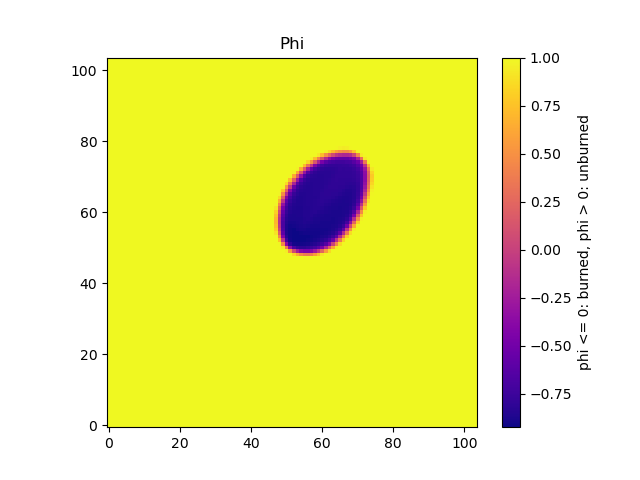
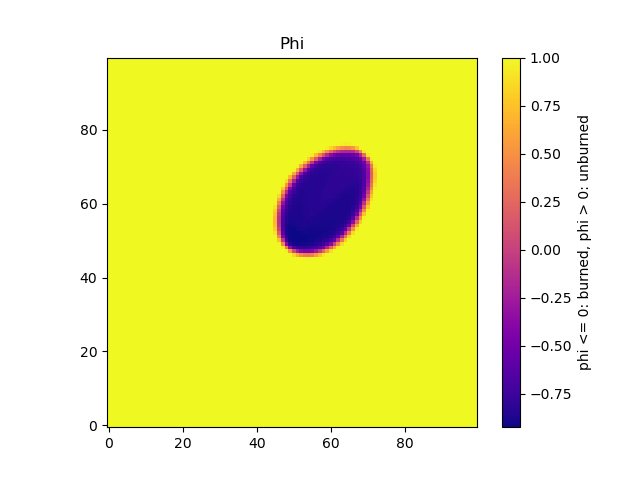
Make SpreadState.get_full_matrices() trim off the 2 cell buffer from phi_matrix, so that it matches the other returned layers

diff --git a/docs/index.html b/docs/index.html
@@ -10459,7 +10459,7 @@ is returned.
     <span class="org-keyword">def</span> <span class="org-function-name">get_full_matrices</span>(<span class="org-keyword">self</span>, layers: <span class="org-builtin">list</span>[<span class="org-builtin">str</span>]<span class="org-operator">|</span><span class="org-constant">None</span> <span class="org-operator">=</span> <span class="org-constant">None</span>) <span class="org-operator">-&gt;</span> <span class="org-builtin">dict</span>:
         <span class="org-comment-delimiter"># </span><span class="org-comment">Prepare the 2D arrays in a dict</span>
         <span class="org-variable-name">available_matrices</span>: <span class="org-builtin">dict</span>[<span class="org-builtin">str</span>, <span class="org-variable-name">ndarray</span>] <span class="org-operator">=</span> {
-            <span class="org-string">"phi"</span>               : np.asarray(<span class="org-keyword">self</span>.phi),
+            <span class="org-string">"phi"</span>               : np.asarray(<span class="org-keyword">self</span>.phi[2:<span class="org-operator">-</span>2,2:<span class="org-operator">-</span>2]), <span class="org-comment-delimiter"># </span><span class="org-comment">Trim off the 2 cell buffer</span>
             <span class="org-string">"fire_type"</span>         : np.asarray(<span class="org-keyword">self</span>.fire_type),
             <span class="org-string">"spread_rate"</span>       : np.asarray(<span class="org-keyword">self</span>.spread_rate),
             <span class="org-string">"spread_direction"</span>  : np.asarray(<span class="org-keyword">self</span>.spread_direction),
@@ -12824,7 +12824,7 @@ Stop Time: 2550.0 (minutes)
 Stop Condition: max duration reached
 
 Phi (phi &lt;= 0: burned, phi &gt; 0: unburned
-{'Min': -0.92554456, 'Max': 1.0, 'Mean': 0.9133916, 'Stdev': 0.3737736}
+{'Min': -0.92554456, 'Max': 1.0, 'Mean': 0.9063243, 'Stdev': 0.3878721}
 
 Fire Type (0=unburned, 1=surface, 2=passive_crown, 3=active_crown)
 {'Min': 1, 'Max': 1, 'Mean': 1.0, 'Stdev': 0.0}
@@ -12979,6 +12979,151 @@ Time of Arrival (minutes)
 </p>
 <p><span class="figure-number">Figure 4: </span>Time of arrival with hourly perimeters</p>
 </div>
+</div>
+</li>
+
+<li><a id="create-3d-plots-of-the-spread-state"></a>Create 3D Plots of the Spread State<br>
+<div class="outline-text-5" id="text-create-3d-plots-of-the-spread-state">
+<div class="org-src-container">
+<pre class="src src-python" id="run-spread-fire-with-phi-field-3d-plots"><span class="org-keyword">import</span> numpy <span class="org-keyword">as</span> np
+<span class="org-keyword">import</span> matplotlib.pyplot <span class="org-keyword">as</span> plt
+<span class="org-keyword">from</span> mpl_toolkits.mplot3d <span class="org-keyword">import</span> Axes3D
+
+
+<span class="org-keyword">def</span> <span class="org-function-name">save_3d_voxel_plot</span>(time_of_arrival_matrix, fire_behavior_matrix, filename, title, units, colors,
+                       vmin<span class="org-operator">=</span><span class="org-constant">None</span>, vmax<span class="org-operator">=</span><span class="org-constant">None</span>, ticks<span class="org-operator">=</span><span class="org-constant">None</span>):
+    <span class="org-comment-delimiter"># </span><span class="org-comment">Get the dimensions of the arrays</span>
+    (<span class="org-variable-name">M</span>, <span class="org-variable-name">N</span>) <span class="org-operator">=</span> fire_behavior_matrix.shape
+
+    <span class="org-comment-delimiter"># </span><span class="org-comment">Create a grid of (X, Y) coordinates</span>
+    (<span class="org-variable-name">X</span>, <span class="org-variable-name">Y</span>) <span class="org-operator">=</span> np.meshgrid(np.arange(N), np.arange(M))
+
+    <span class="org-comment-delimiter"># </span><span class="org-comment">Flatten the matrices for 3D plotting</span>
+    <span class="org-variable-name">X_flat</span> <span class="org-operator">=</span> X.flatten()
+    <span class="org-variable-name">Y_flat</span> <span class="org-operator">=</span> Y.flatten()
+    <span class="org-variable-name">Z_flat</span> <span class="org-operator">=</span> time_of_arrival_matrix.flatten()
+    <span class="org-variable-name">V_flat</span> <span class="org-operator">=</span> fire_behavior_matrix.flatten()
+
+    <span class="org-comment-delimiter"># </span><span class="org-comment">Filter out the non-burned areas (assuming non-positive values mean no fire)</span>
+    <span class="org-variable-name">mask</span> <span class="org-operator">=</span> <span class="org-operator">~</span>np.isnan(Z_flat)
+    <span class="org-variable-name">X_burned</span> <span class="org-operator">=</span> X_flat[mask]
+    <span class="org-variable-name">Y_burned</span> <span class="org-operator">=</span> Y_flat[mask]
+    <span class="org-variable-name">Z_burned</span> <span class="org-operator">=</span> Z_flat[mask]
+    <span class="org-variable-name">V_burned</span> <span class="org-operator">=</span> V_flat[mask]
+
+    <span class="org-comment-delimiter"># </span><span class="org-comment">Set up the figure and 3D axis</span>
+    <span class="org-variable-name">fig</span> <span class="org-operator">=</span> plt.figure()
+    <span class="org-variable-name">ax</span> <span class="org-operator">=</span> fig.add_subplot(111, projection<span class="org-operator">=</span><span class="org-string">'3d'</span>)
+
+    <span class="org-comment-delimiter"># </span><span class="org-comment">Create a scatter plot</span>
+    <span class="org-variable-name">sc</span> <span class="org-operator">=</span> ax.scatter(X_burned, Y_burned, Z_burned, c<span class="org-operator">=</span>V_burned, cmap<span class="org-operator">=</span>colors, marker<span class="org-operator">=</span><span class="org-string">'o'</span>, vmin<span class="org-operator">=</span>vmin, vmax<span class="org-operator">=</span>vmax)
+
+    <span class="org-comment-delimiter"># </span><span class="org-comment">Add color bar to indicate fire intensity</span>
+    <span class="org-variable-name">cbar</span> <span class="org-operator">=</span> plt.colorbar(sc, ax<span class="org-operator">=</span>ax, shrink<span class="org-operator">=</span>0.8, pad<span class="org-operator">=</span>0.15, orientation<span class="org-operator">=</span><span class="org-string">"vertical"</span>, ticks<span class="org-operator">=</span>ticks)
+    cbar.set_label(units)
+
+    <span class="org-comment-delimiter"># </span><span class="org-comment">Set labels</span>
+    ax.set_xlabel(<span class="org-string">'X axis'</span>)
+    ax.set_ylabel(<span class="org-string">'Y axis'</span>)
+    ax.set_zlabel(<span class="org-string">'Time of Arrival'</span>)
+
+    <span class="org-comment-delimiter"># </span><span class="org-comment">Add a title and save the file</span>
+    plt.title(title)
+    plt.savefig(filename)
+    plt.close(<span class="org-string">"all"</span>)
+
+
+<span class="org-comment-delimiter"># </span><span class="org-comment">See https://matplotlib.org/stable/gallery/color/colormap_reference.html for the available options for "colors"</span>
+<span class="org-variable-name">heatmap_configs</span> <span class="org-operator">=</span> [
+    {
+        <span class="org-string">"matrix"</span>  : output_matrices[<span class="org-string">"phi"</span>],
+        <span class="org-string">"colors"</span>  : <span class="org-string">"plasma"</span>,
+        <span class="org-string">"units"</span>   : <span class="org-string">"phi &lt;= 0: burned, phi &gt; 0: unburned"</span>,
+        <span class="org-string">"title"</span>   : <span class="org-string">"Phi"</span>,
+        <span class="org-string">"filename"</span>: <span class="org-string">"org/pics/els_phi_cube.png"</span>,
+    },
+    {
+        <span class="org-string">"matrix"</span>  : output_matrices[<span class="org-string">"fire_type"</span>],
+        <span class="org-string">"colors"</span>  : <span class="org-string">"viridis"</span>,
+        <span class="org-string">"units"</span>   : <span class="org-string">"0=unburned, 1=surface, 2=passive_crown, 3=active_crown"</span>,
+        <span class="org-string">"title"</span>   : <span class="org-string">"Fire Type"</span>,
+        <span class="org-string">"filename"</span>: <span class="org-string">"org/pics/els_fire_type_cube.png"</span>,
+        <span class="org-string">"vmin"</span>    : 0,
+        <span class="org-string">"vmax"</span>    : 3,
+        <span class="org-string">"ticks"</span>   : [0,1,2,3],
+    },
+    {
+        <span class="org-string">"matrix"</span>  : output_matrices[<span class="org-string">"spread_rate"</span>],
+        <span class="org-string">"colors"</span>  : <span class="org-string">"hot"</span>,
+        <span class="org-string">"units"</span>   : <span class="org-string">"m/min"</span>,
+        <span class="org-string">"title"</span>   : <span class="org-string">"Spread Rate"</span>,
+        <span class="org-string">"filename"</span>: <span class="org-string">"org/pics/els_spread_rate_cube.png"</span>,
+    },
+    {
+        <span class="org-string">"matrix"</span>  : output_matrices[<span class="org-string">"spread_direction"</span>],
+        <span class="org-string">"colors"</span>  : <span class="org-string">"viridis"</span>,
+        <span class="org-string">"units"</span>   : <span class="org-string">"degrees clockwise from North"</span>,
+        <span class="org-string">"title"</span>   : <span class="org-string">"Spread Direction"</span>,
+        <span class="org-string">"filename"</span>: <span class="org-string">"org/pics/els_spread_direction_cube.png"</span>,
+        <span class="org-string">"vmin"</span>    : 0,
+        <span class="org-string">"vmax"</span>    : 360,
+        <span class="org-string">"ticks"</span>   : [0,45,90,135,180,225,270,315,360]
+    },
+    {
+        <span class="org-string">"matrix"</span>  : output_matrices[<span class="org-string">"fireline_intensity"</span>],
+        <span class="org-string">"colors"</span>  : <span class="org-string">"hot"</span>,
+        <span class="org-string">"units"</span>   : <span class="org-string">"kW/m"</span>,
+        <span class="org-string">"title"</span>   : <span class="org-string">"Fireline Intensity"</span>,
+        <span class="org-string">"filename"</span>: <span class="org-string">"org/pics/els_fireline_intensity_cube.png"</span>,
+    },
+    {
+        <span class="org-string">"matrix"</span>  : output_matrices[<span class="org-string">"flame_length"</span>],
+        <span class="org-string">"colors"</span>  : <span class="org-string">"hot"</span>,
+        <span class="org-string">"units"</span>   : <span class="org-string">"meters"</span>,
+        <span class="org-string">"title"</span>   : <span class="org-string">"Flame Length"</span>,
+        <span class="org-string">"filename"</span>: <span class="org-string">"org/pics/els_flame_length_cube.png"</span>,
+    },
+]
+
+
+<span class="org-keyword">for</span> heatmap_config <span class="org-keyword">in</span> heatmap_configs:
+    save_3d_voxel_plot(output_matrices[<span class="org-string">"time_of_arrival"</span>],
+                       heatmap_config[<span class="org-string">"matrix"</span>],
+                       heatmap_config[<span class="org-string">"filename"</span>],
+                       heatmap_config[<span class="org-string">"title"</span>],
+                       heatmap_config[<span class="org-string">"units"</span>],
+                       heatmap_config[<span class="org-string">"colors"</span>],
+                       heatmap_config.get(<span class="org-string">"vmin"</span>),
+                       heatmap_config.get(<span class="org-string">"vmax"</span>),
+                       heatmap_config.get(<span class="org-string">"ticks"</span>))
+</pre>
+</div>
+
+<table id="fire-behavior-matplotlib-heatmap-cubes">
+<caption class="t-above"><span class="table-number">Table 8:</span> 3D fire behavior shapes after 8 hours of spread</caption>
+
+<colgroup>
+<col  class="org-left">
+
+<col  class="org-left">
+</colgroup>
+<tbody>
+<tr>
+<td class="org-left"><img src="pics/els_phi_cube.png" alt="els_phi_cube.png"></td>
+<td class="org-left"><img src="pics/els_fire_type_cube.png" alt="els_fire_type_cube.png"></td>
+</tr>
+
+<tr>
+<td class="org-left"><img src="pics/els_spread_rate_cube.png" alt="els_spread_rate_cube.png"></td>
+<td class="org-left"><img src="pics/els_spread_direction_cube.png" alt="els_spread_direction_cube.png"></td>
+</tr>
+
+<tr>
+<td class="org-left"><img src="pics/els_fireline_intensity_cube.png" alt="els_fireline_intensity_cube.png"></td>
+<td class="org-left"><img src="pics/els_flame_length_cube.png" alt="els_flame_length_cube.png"></td>
+</tr>
+</tbody>
+</table>
 </div>
 </li>
 </ol>
@@ -13185,7 +13330,7 @@ Stop Time: 2550.0 (minutes)
 Stop Condition: max duration reached
 
 Phi (phi &lt;= 0: burned, phi &gt; 0: unburned
-{'Min': -1.0, 'Max': 1.0, 'Mean': 0.73481274, 'Stdev': 0.6118095}
+{'Min': -1.0, 'Max': 1.0, 'Mean': 0.71317345, 'Stdev': 0.63138574}
 
 Fire Type (0=unburned, 1=surface, 2=passive_crown, 3=active_crown)
 {'Min': 1, 'Max': 1, 'Mean': 1.0, 'Stdev': 0.0}
@@ -13373,7 +13518,7 @@ Future Spot Ignitions:
 </div>
 
 <table id="spot-fire-behavior-matplotlib-heatmaps">
-<caption class="t-above"><span class="table-number">Table 8:</span> Fire behavior attributes after 8 hours of spread with spotting enabled</caption>
+<caption class="t-above"><span class="table-number">Table 9:</span> Fire behavior attributes after 8 hours of spread with spotting enabled</caption>
 
 <colgroup>
 <col  class="org-left">
@@ -13725,8 +13870,8 @@ Stop Condition (Main): max duration reached
 Stop Condition (Fork): max duration reached
 
 Phi (phi &lt;= 0: burned, phi &gt; 0: unburned
-Main: {'Min': -0.92529535, 'Max': 1.0, 'Mean': 0.8109577, 'Stdev': 0.542039}
-Fork: {'Min': -0.92529535, 'Max': 1.0, 'Mean': 0.8146855, 'Stdev': 0.538873}
+Main: {'Min': -0.92529535, 'Max': 1.0, 'Mean': 0.7955318, 'Stdev': 0.56091595}
+Fork: {'Min': -0.92529535, 'Max': 1.0, 'Mean': 0.7995638, 'Stdev': 0.5577172}
 
 Fire Type (0=unburned, 1=surface, 2=passive_crown, 3=active_crown)
 Main: {'Min': 1, 'Max': 1, 'Mean': 1.0, 'Stdev': 0.0}
@@ -13928,7 +14073,7 @@ Fork: {'Min': 2081.852, 'Max': 2789.6057, 'Mean': 2539.8635, 'Stdev': 171.96436}
 </div>
 
 <table id="fuel-model-matplotlib-heatmaps-forked">
-<caption class="t-above"><span class="table-number">Table 9:</span> Fuel model [Left: Main, Right: Fork]</caption>
+<caption class="t-above"><span class="table-number">Table 10:</span> Fuel model [Left: Main, Right: Fork]</caption>
 
 <colgroup>
 <col  class="org-left">
@@ -13944,7 +14089,7 @@ Fork: {'Min': 2081.852, 'Max': 2789.6057, 'Mean': 2539.8635, 'Stdev': 171.96436}
 </table>
 
 <table id="fire-behavior-matplotlib-heatmaps-forked">
-<caption class="t-above"><span class="table-number">Table 10:</span> Fire behavior attributes after 12 hours of spread [Left: Main, Right: Fork]</caption>
+<caption class="t-above"><span class="table-number">Table 11:</span> Fire behavior attributes after 12 hours of spread [Left: Main, Right: Fork]</caption>
 
 <colgroup>
 <col  class="org-left">
@@ -13985,7 +14130,7 @@ Fork: {'Min': 2081.852, 'Max': 2789.6057, 'Mean': 2539.8635, 'Stdev': 171.96436}
 </table>
 
 <table id="time-of-arrival-matplotlib-countours-forked">
-<caption class="t-above"><span class="table-number">Table 11:</span> Time of arrival with hourly perimeters [Left: Main, Right: Fork]</caption>
+<caption class="t-above"><span class="table-number">Table 12:</span> Time of arrival with hourly perimeters [Left: Main, Right: Fork]</caption>
 
 <colgroup>
 <col  class="org-left">
@@ -14923,11 +15068,11 @@ of the input layers that are needed to describe the simulation
 environment. A popular source of data for the space-varying
 topography, fuels, and vegetation layers are the 30m raster layers
 provided by the US LANDFIRE program<sup><a id="fnr.3.100" class="footref" href="#fn.3" role="doc-backlink">3</a></sup> (see table
-<a href="#tab:landfire-layers">12</a> for details).
+<a href="#tab:landfire-layers">13</a> for details).
 </p>
 
 <table id="tab:landfire-layers">
-<caption class="t-above"><span class="table-number">Table 12:</span> 2022 LANDFIRE Raster Layers</caption>
+<caption class="t-above"><span class="table-number">Table 13:</span> 2022 LANDFIRE Raster Layers</caption>
 
 <colgroup>
 <col  class="org-left">
@@ -15185,7 +15330,7 @@ these keys:
 <div class="outline-text-4" id="text-converting-landfire-units-and-datatypes">
 <p>
 The units and datatypes of our LANDFIRE GeoTIFFs are documented in
-Table <a href="#tab:landfire-layers">12</a>. In order to make them match those required
+Table <a href="#tab:landfire-layers">13</a>. In order to make them match those required
 by the Pyretechnics Fire Spread API, we need to apply some conversions
 during the layer loading process.
 </p>

diff --git a/src/pyretechnics/eulerian_level_set.py b/src/pyretechnics/eulerian_level_set.py
@@ -787,7 +787,7 @@ class SpreadState:
     def get_full_matrices(self, layers: list[str]|None = None) -> dict:
         # Prepare the 2D arrays in a dict
         available_matrices: dict[str, ndarray] = {
-            "phi"               : np.asarray(self.phi),
+            "phi"               : np.asarray(self.phi[2:-2,2:-2]), # Trim off the 2 cell buffer
             "fire_type"         : np.asarray(self.fire_type),
             "spread_rate"       : np.asarray(self.spread_rate),
             "spread_direction"  : np.asarray(self.spread_direction),
